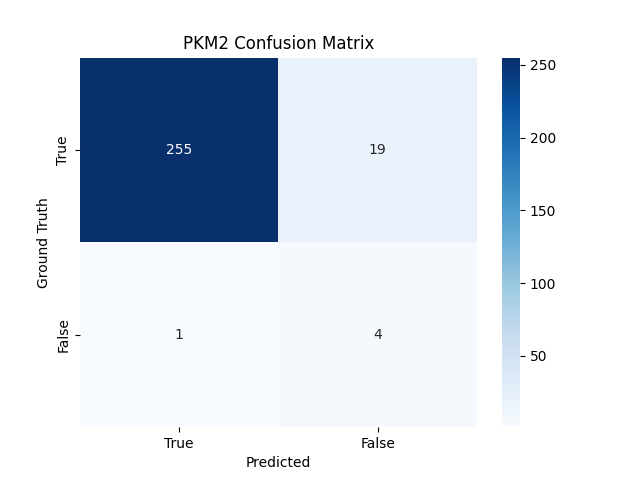
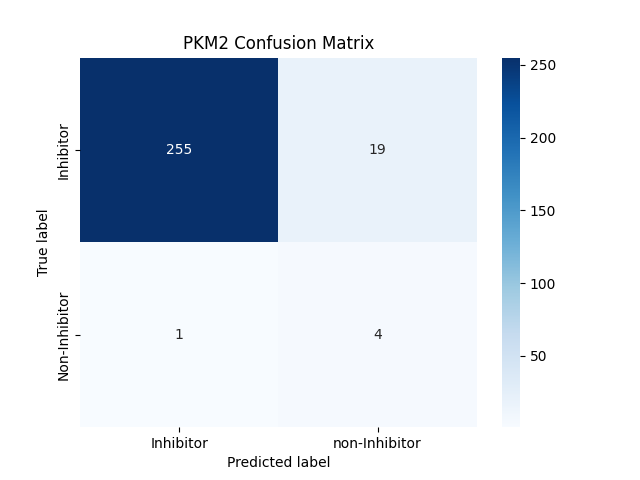
kleine aanpassing conf matrix

diff --git a/Deep learning/pltcm.py b/Deep learning/pltcm.py
@@ -6,9 +6,15 @@ import numpy as np
 import matplotlib.pyplot as plt
 import seaborn as sns
 
-sns.heatmap(cm_PKM, annot=True, fmt='d', cmap='Blues', xticklabels=['True', 'False'], yticklabels=['True', 'False'])
-plt.xlabel('Predicted')
-plt.ylabel('Ground Truth')
+sns.heatmap(cm_PKM, annot=True, fmt='d', cmap='Blues', xticklabels=['Inhibitor', 'non-Inhibitor'], yticklabels=['Inhibitor', 'Non-Inhibitor'])
+plt.xlabel('Predicted label')
+plt.ylabel('True label')
 plt.title('PKM2 Confusion Matrix')
 plt.show()
 
+
+sns.heatmap(cm_ERK, annot=True, fmt='d', cmap='Blues', xticklabels=['Inhibitor', 'non-Inhibitor'], yticklabels=['Inhibitor', 'Non-Inhibitor'])
+plt.xlabel('Predicted label')
+plt.ylabel('True label')
+plt.title('ERK2 Confusion Matrix')
+plt.show()
